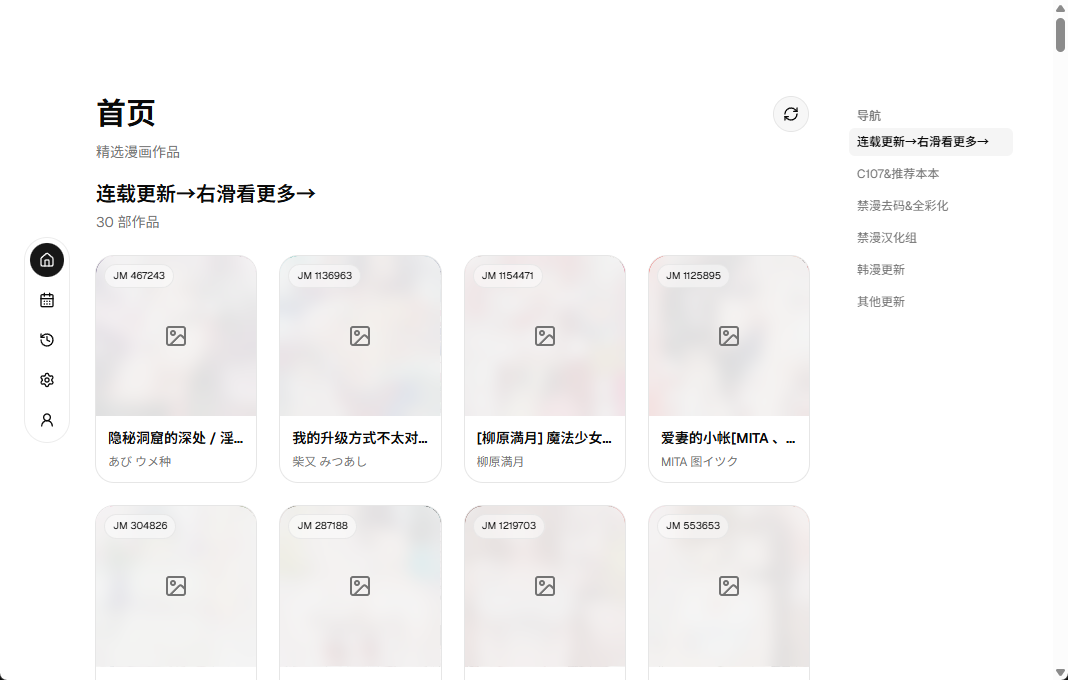
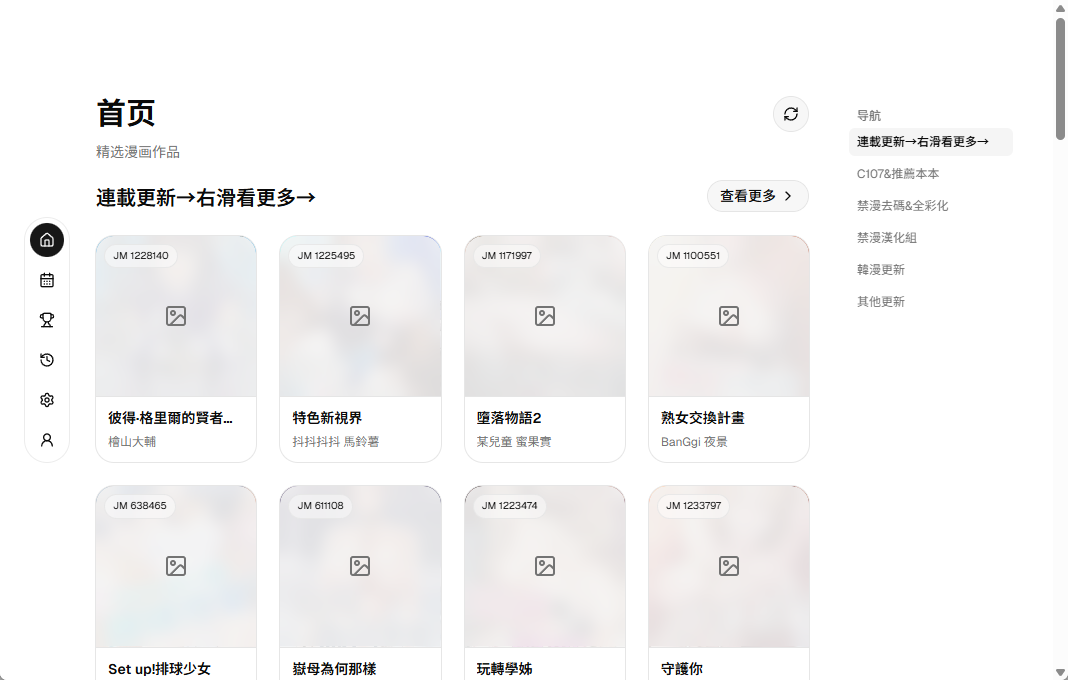
update README.MD

diff --git a/README.md b/README.md
@@ -22,6 +22,8 @@
 
 ![JM Boom 截图 5](screenshot/ScreenShot_2026-06-27_002814_315.png)
 
+![JM Boom 截图 9](screenshot/ScreenShot_2026-06-29_002045_218.png)
+
 ![JM Boom 截图 6](screenshot/ScreenShot_2026-06-27_002820_731.png)
 
 ![JM Boom 截图 7](screenshot/ScreenShot_2026-06-27_002849_983.png)